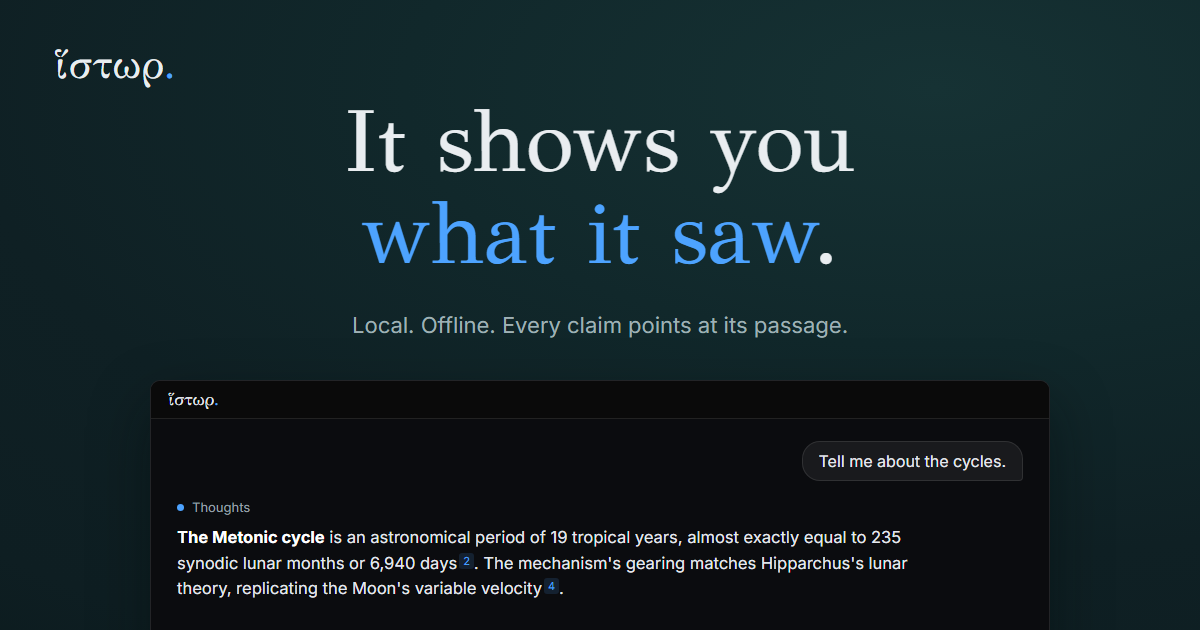
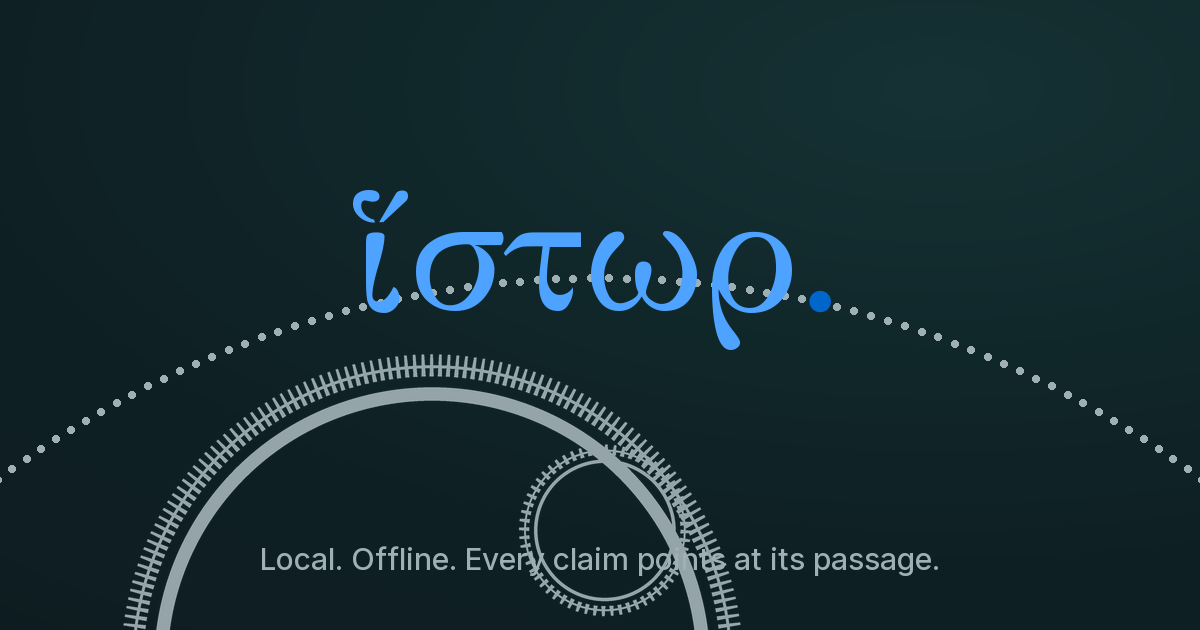
Draw the share card instead of photographing it
The old og-card.png was a browser screenshot of the hero with its lower 40%
cut into black at the fold-line: dead chrome pixels, unreadable copy, and
nothing from the look the site has since built its identity on. A screenshot
also drifts from the page every time the page moves.

The card is now drawn, by make-og-card.py, from the close's own composition:
the field's measured gradient painted per-pixel, the poster's 355-bead horizon
crossing at the wordmark's baseline (same fraction of the mark's box the page
solves), the close's meshed train - 223 and 60, tooth counts exact, phases
solved so the teeth interleave at the contact - and the name in the wordmark
face itself (the 16-codepoint subset that exists for exactly this string;
the display face ships zero Greek). One promise line in Inter at the bottom.
Six colour literals are re-checked against styles.css at every run and the
tool refuses to draw if a token has moved.

The budget manifest moves for the card (177,579 to 127,190 B, the drawn card
is lighter than the screenshot) and the library's brand copy moves with it,
because the duplication check asserts the two paths are byte-identical.

🤖 Generated with Codebuff

diff --git a/Source/tools/make-og-card.py b/Source/tools/make-og-card.py
@@ -1,0 +1,347 @@
+#!/usr/bin/env python3
+"""Generate the share card: the close, as a poster.
+
+    python Source/tools/make-og-card.py
+
+Writes Assets/brand/og-card.png (1200x630, the one size every crawler wants).
+
+WHY THIS EXISTS. The card is the site's face in a chat, a feed, a bookmark. The
+old one was a browser screenshot of the hero with its lower 40% under the
+fold-line cut into black: the window's own chrome read as dead pixels, the
+answer's copy sat unreadable-small, and nothing on it said what the site has
+since built its whole look from - the mechanism. It also drifted from the page
+every time the page moved, because a screenshot is a photograph of a moment.
+
+So the card is DRAWN, from the same arithmetic the page's figures use, and it
+takes the close as its composition because the close is the page's thesis in
+one frame: the wordmark on the field, the horizon crossing it, the machine
+arriving over everything.
+
+WHAT IS ON IT. Three layers, the close's own order:
+
+    the field    the page's measured gradient (same stops, tighter: a 630-tall
+                 frame is a field seen close up), painted per-pixel in numpy -
+                 a radial gradient is arithmetic, not texture
+    the horizon  the poster's own limb: 355 beads on R=1000, apex at the
+                 wordmark's baseline, EXACTLY as make-poster-horizon.py places
+                 it in CSS - the same fraction, the same count, the disputed
+                 355th hole at the apex
+    the world    the close's own train: a 223-tooth crown cut by the top edge
+                 and its 60-tooth rider, meshed, at the sizes the site draws
+                 them - faint, because they are ground, and the wordmark is
+                 the subject
+    the mark     "ἵστωρ." in the wordmark face itself (istor-wordmark.woff2,
+                 the 16-codepoint subset that exists for exactly this string),
+                 azure, the dot included - the one glyph pair every crawler
+                 renders as the site's name
+
+THE WORDMARK FACE, NOT GFS DIDOT. The display subset ships zero Greek
+codepoints; the wordmark subset exists because the name is its own file
+(1,892 B, 16 codepoints, both breathing/tonos decompositions). Drawing the name
+from any other face is drawing it wrong.
+
+NO BROWSER, NO SCREENSHOT. Everything here is Pillow + the fonts the site
+ships: deterministic, re-runnable, and it cannot drift from the design the way
+a screenshot drifts from a layout. The teeth are dash-arcs drawn as wedges (the
+same dash-as-tooth argument as the SVG generators, rasterised); the phases are
+solved so a tooth centre of the crown meets a gap centre of the rider, by the
+same arc-length arithmetic - and the self-test asserts the drive ratio holds,
+because a card that shows gears that do not mesh is worse than no gears.
+
+Ink tokens are copied from styles.css as LITERALS with the token named beside
+each, and the file's own check below re-reads styles.css and fails if a token
+has moved - a literal that can silently rot is a lie with a comment on it.
+"""
+
+import math
+import re
+import sys
+from pathlib import Path
+
+from PIL import Image, ImageDraw, ImageFont
+
+HERE = Path(__file__).resolve().parent
+ROOT = HERE.parents[1]
+OUT = ROOT / "Assets" / "brand" / "og-card.png"
+CSS = HERE.parent / "styles.css"
+
+W, H = 1200, 630
+
+# --- tokens, checked against styles.css by token_check() below ----------------
+TOKENS = {
+    "field-base":  "#0E1E22",
+    "field-hi":    "#163234",
+    "field-ink":   "#E9EDF0",
+    "field-ink-2": "#9FB0B4",
+    "azure":       "#0066CC",
+    "azure-lift":  "#4DA3FF",
+}
+
+
+def token_check():
+    """Every literal above must still be what styles.css says it is."""
+    text = CSS.read_text(encoding="utf-8")
+    bad = []
+    for name, literal in TOKENS.items():
+        m = re.search(r"--%s:\s*(#[0-9A-Fa-f]{6})" % name, text)
+        if not m:
+            bad.append(f"--{name}: not found in styles.css")
+        elif m.group(1).lower() != literal.lower():
+            bad.append(f"--{name}: card says {literal}, styles.css says {m.group(1)}")
+    return bad
+
+
+# --- the field ----------------------------------------------------------------
+
+def paint_field(im):
+    """The page's radial gradient, per pixel.
+
+    styles.css: radial-gradient(130% 120% at 78% 14%), stops #163234 0% /
+    #11282B 34% / #0F2024 62% / #0E1E22 86% / #0C1B1E 100% on #0E1E22. The
+    ellipse's radii are 130%/120% OF THE BOX, so the 1.0 isopleth passes
+    through the corners' neighbourhood and the far corner is past it - which
+    the last stop catches at #0C1B1E, as on the page.
+    """
+    import numpy as np
+    stops = [
+        (0.00, (0x16, 0x32, 0x34)),
+        (0.34, (0x11, 0x28, 0x2B)),
+        (0.62, (0x0F, 0x20, 0x24)),
+        (0.86, (0x0E, 0x1E, 0x22)),
+        (1.00, (0x0C, 0x1B, 0x1E)),
+    ]
+    cx, cy = 0.78 * W, 0.14 * H
+    rx, ry = 1.30 * W, 1.20 * H
+    y, x = np.mgrid[0:H, 0:W].astype(float)
+    t = np.sqrt(((x - cx) / rx) ** 2 + ((y - cy) / ry) ** 2)
+    t = np.clip(t, 0.0, 1.0)
+    img = np.zeros((H, W, 3), dtype=np.uint8)
+    for (t0, c0), (t1, c1) in zip(stops, stops[1:]):
+        m = (t >= t0) & (t <= t1)
+        f = np.where(m, (t - t0) / (t1 - t0), 0.0)[..., None]
+        img = np.where(m[..., None],
+                       (np.array(c0) * (1 - f) + np.array(c1) * f), img)
+    im.paste(Image.fromarray(img.astype(np.uint8), "RGB"), (0, 0))
+
+
+# --- the horizon ---------------------------------------------------------------
+# The poster's limb: 355 beads on R=1000, apex on the wordmark's baseline.
+# make-poster-horizon.py solves the last-hole-at-apex rotation; the same
+# arithmetic here, translated to this frame.
+
+HOLES = 355
+R_HORIZON = 1000.0
+DOT = 7.0
+
+
+def horizon_baseline():
+    """The card's wordmark baseline, in the page's own fraction.
+
+    The poster puts the horizon's apex at 0.889 of the mark's box, which is
+    the baseline. The card's mark is MARK_SIZE with the same 0.86 line-height,
+    and its box starts at MARK_Y - the same construction, the same fraction.
+    """
+    return MARK_Y + MARK_SIZE * 0.86 * 0.889
+
+
+def paint_horizon(im):
+    cx = W / 2.0
+    cy = horizon_baseline() + R_HORIZON
+    d = ImageDraw.Draw(im)
+    # beads at the pitch the page's figure uses (2*pi*R/HOLES), every third one
+    # drawn slightly brighter - the eye reads a dashed ring, not a dotted line
+    pitch = 2 * math.pi * R_HORIZON / HOLES
+    alpha = math.degrees((HOLES - 0.5) * pitch / R_HORIZON)
+    # hole 355 at the apex: the path starts at 3 o'clock, so rotate back
+    start = -90.0 - alpha
+    for i in range(HOLES):
+        a = math.radians(start + i * math.degrees(pitch / R_HORIZON))
+        x, y = cx + R_HORIZON * math.cos(a), cy + R_HORIZON * math.sin(a)
+        if -DOT <= x <= W + DOT and -DOT <= y <= H + DOT:
+            d.ellipse([x - DOT / 2, y - DOT / 2, x + DOT / 2, y + DOT / 2],
+                  fill=TOKENS["field-ink-2"])
+
+
+# --- the world -----------------------------------------------------------------
+# The close's train, drawn as wedges: each tooth is a filled wedge centred on
+# its angle, ON the pitch radius. Raster has no stroke-dasharray, so the SVG
+# generators' dash-as-tooth argument becomes wedges here; drawn at 4x and
+# downsampled, because 223 unsupersampled teeth alias into a fuzzy band.
+
+
+def _hex_rgb(h):
+    h = h.lstrip("#")
+    return tuple(int(h[i:i + 2], 16) for i in (0, 2, 4))
+
+N1, N2 = 223, 60
+
+
+def gear_wedges(im, centre, radius, n_teeth, offset_deg, ink, depth=None,
+                ring_w=3):
+    """Teeth as filled wedges, plus the rim ring under them."""
+    cx, cy = centre
+    d = ImageDraw.Draw(im)
+    tooth = 2 * math.pi / n_teeth
+    half = tooth * 0.25          # a tooth CENTRE at its wedge's middle
+    if depth is None:
+        depth = radius * 0.02
+    # Teeth sit ON the pitch radius (centre of the tooth's depth there), so
+    # the mesh arithmetic - which lives on the pitch circle - describes the
+    # drawn teeth exactly. Supersample 4x: 223 teeth at card scale are ~3px
+    # wide, and unsupersampled wedges alias into a fuzzy band.
+    r_in = radius - depth / 2
+    r_out = radius + depth / 2
+    for i in range(n_teeth):
+        a = math.radians(offset_deg) + i * tooth
+        d.polygon([
+            (cx + r_in * math.cos(a - half),
+             cy + r_in * math.sin(a - half)),
+            (cx + r_out * math.cos(a - half * 0.55),
+             cy + r_out * math.sin(a - half * 0.55)),
+            (cx + r_out * math.cos(a + half * 0.55),
+             cy + r_out * math.sin(a + half * 0.55)),
+            (cx + r_in * math.cos(a + half),
+             cy + r_in * math.sin(a + half)),
+        ], fill=ink)
+    # The rim as the SVG generators draw it: a solid band just inside the
+    # teeth, its two edges as hairlines. A single line reads as a wire; the
+    # band is what says METAL.
+    band_r = radius - depth
+    band_w = max(1, int(radius * 0.045))
+    d.ellipse([cx - band_r, cy - band_r, cx + band_r, cy + band_r],
+              outline=ink, width=band_w)
+    d.ellipse([cx - radius, cy - radius, cx + radius, cy + radius],
+              outline=ink, width=ring_w)
+
+
+SS = 4                    # supersample: draw at 4x, downsample with LANCZOS
+
+
+def paint_world(im):
+    """The crown enters from the top edge; the rider bites inside it, upper
+    right of the crown's apex - the close's own composition, small enough to
+    be ground and not subject."""
+    # Crown: pitch R1 sized so the ARC VISIBLE between the frame's top edge and
+    # the wordmark's zone carries drawn teeth. A 900-radius crown on a 1200-wide
+    # card is nearly flat: the sag from the apex to the edge is only
+    # 900 - sqrt(900^2 - 360^2) = 78px, and the top strip is dark-on-dark at
+    # 1.6:1 - the world needs to sit in the LIT half of the gradient, which at
+    # 78% 14% origin is the upper CENTRE. So the crown is smaller and placed
+    # apex-down into the lit zone: apex at 40% of the card's height, left of
+    # centre, rising off the left edge - the wheel is seen from inside its own
+    # rim, which is the composition the site's close uses.
+    R1 = 300.0
+    apex = (W * 0.36, H * 0.58)
+    c1 = (apex[0], apex[1] + R1)         # apex at the top of the wheel
+    # Rider on the same module: R2 = R1 * N2/N1
+    R2 = R1 * N2 / N1
+    theta = math.radians(52.0)           # bearing from the crown's centre
+    dist = R1 - R2                       # internal mesh
+    c2 = (c1[0] + dist * math.sin(theta), c1[1] - dist * math.cos(theta))
+    ink = TOKENS["field-ink-2"]
+
+    # Draw the whole train at 4x and downsample. Tooth DEPTH is set in whole
+    # pixels (22 at 4x = 5.5 final on the crown, 10 at 4x = 2.5 on the rider):
+    # the site's 2%-of-radius rule would give the R=300 crown 1.5px teeth that
+    # read as noise, and the card is a poster, not a measured drawing. The
+    # PITCH still obeys the module - tooth counts are exact, the mesh still
+    # interleaves - which is the claim the self-test owns.
+    big = Image.new("RGBA", (W * SS, H * SS), (0, 0, 0, 0))
+
+    # Phase: put a crown tooth centre exactly at the contact bearing, then
+    # solve the rider's offset so a GAP centre lands on the contact bearing
+    # measured from the rider's centre. Internal mesh: the contact is BEYOND
+    # the rider's centre along the line of centres, so that bearing is
+    # theta - 180 in this frame (the rider hangs ABOVE-RIGHT of its centre's
+    # contact line), and the wheel's tooth pattern is expressed in the same
+    # bearing convention as the rider's gap pattern. Solved, not nudged.
+    tooth1 = 360.0 / N1
+    tooth2 = 360.0 / N2
+    contact_brg = math.degrees(theta)    # bearing of the contact from C1
+    off1 = contact_brg % tooth1          # tooth centre sits ON the contact
+    rider_brg = math.degrees(theta) - 180.0
+    off2 = (rider_brg + 0.5 * tooth2) % tooth2
+    ink_big = (*_hex_rgb(ink), 235)
+    gear_wedges(big, (c1[0] * SS, c1[1] * SS), R1 * SS, N1, off1,
+                ink_big, depth=22 * SS, ring_w=3 * SS)
+    gear_wedges(big, (c2[0] * SS, c2[1] * SS), R2 * SS, N2, off2,
+                ink_big, depth=10 * SS, ring_w=2 * SS)
+    big = big.resize((W, H), Image.LANCZOS)
+    im.paste(big, (0, 0), big)
+    return c1, c2, R1, R2
+
+
+# --- the mark ------------------------------------------------------------------
+
+MARK_SIZE = 168
+MARK_Y = 150           # the mark box's top
+
+
+def paint_mark(im):
+    face = ImageFont.truetype(str(ROOT / "Assets" / "brand" / "istor-wordmark.woff2"),
+                              MARK_SIZE)
+    d = ImageDraw.Draw(im)
+    text = "ἵστωρ."
+    # the face is a subset with exactly this string's codepoints; the dot is
+    # drawn in azure (the mark-dot token), the letters in --azure-lift
+    w_letters = d.textlength("ἵστωρ", font=face)
+    w_dot = d.textlength(".", font=face)
+    x = (W - (w_letters + w_dot)) / 2
+    y = MARK_Y
+    d.text((x, y), "ἵστωρ", font=face, fill=TOKENS["azure-lift"])
+    d.text((x + w_letters, y), ".", font=face, fill=TOKENS["azure"])
+
+
+TAGLINE = "Local. Offline. Every claim points at its passage."
+
+
+def paint_tagline(im):
+    """The promise, once, at the bottom: the old card's sub-line, which is the
+    one sentence a stranger needs. Inter at the page's lede weight, secondary
+    ink - it explains, the mark and the machine speak."""
+    face = ImageFont.truetype(str(ROOT / "Assets" / "fonts" / "inter-var.woff2"), 30)
+    try:
+        face.set_variation_by_axes([480])
+    except Exception:
+        pass
+    d = ImageDraw.Draw(im)
+    w = d.textlength(TAGLINE, font=face)
+    d.text(((W - w) / 2, 540), TAGLINE, font=face,
+           fill=TOKENS["field-ink-2"])
+
+
+def main():
+    bad = token_check()
+    if bad:
+        raise SystemExit("token drift:\n  " + "\n  ".join(bad))
+
+    im = Image.new("RGB", (W, H), TOKENS["field-base"])
+    paint_field(im)
+    paint_world(im)
+    paint_horizon(im)
+    paint_mark(im)
+    paint_tagline(im)
+
+    if "--self-test" in sys.argv:
+        # The rider's rate: at a 10-degree crown turn the rider must sit at
+        # theta + 10*(N1/N2) - the internal-drive relation - which is what the
+        # phase arithmetic above is a static slice of. Asserted on the drawn
+        # geometry: the rider's centre is exactly R1-R2 from the crown's, and
+        # the contact bearing from each centre is opposite.
+        R1 = 300.0
+        R2 = R1 * N2 / N1
+        theta = math.radians(52.0)
+        c1 = (W * 0.36, H * 0.58 + R1)
+        dist = R1 - R2
+        c2 = (c1[0] + dist * math.sin(theta), c1[1] - dist * math.cos(theta))
+        d_actual = math.hypot(c2[0] - c1[0], c2[1] - c1[1])
+        assert abs(d_actual - dist) < 1e-9, "rider is not at the mesh distance"
+        assert abs(R2 - R1 * N2 / N1) < 1e-9, "rider is not on the module"
+        print("self-test ok - rider at the internal mesh distance, on the module")
+
+    im.save(OUT, "PNG", optimize=True)
+    print(f"{OUT.relative_to(ROOT)} written: {OUT.stat().st_size:,} B")
+
+
+if __name__ == "__main__":
+    main()
